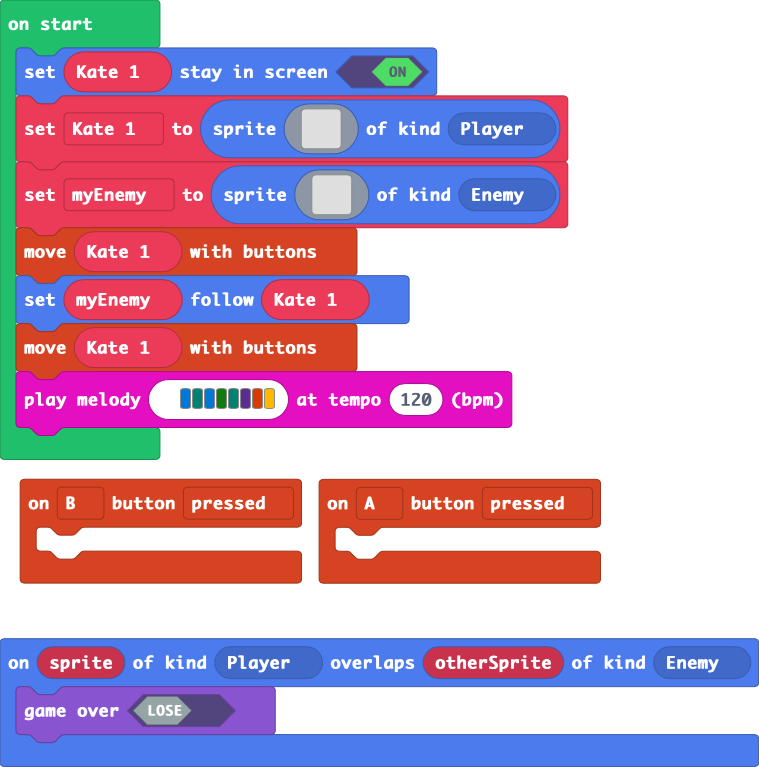
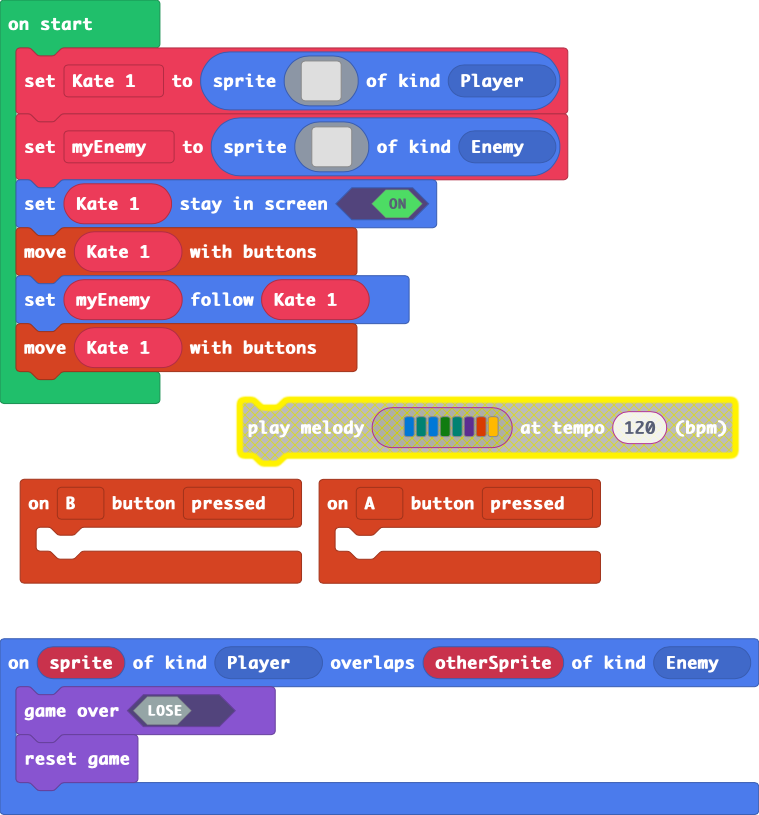
Update main.blocks, main.ts

diff --git a/main.ts b/main.ts
@@ -6,10 +6,9 @@ controller.A.onEvent(ControllerButtonEvent.Pressed, function () {
 })
 sprites.onOverlap(SpriteKind.Player, SpriteKind.Enemy, function (sprite, otherSprite) {
     game.over(false)
+    game.reset()
 })
-let Kate_1: Sprite = null
-Kate_1.setStayInScreen(true)
-Kate_1 = sprites.create(img`
+let Kate_1 = sprites.create(img`
     . . . . . . f f f f 4 4 f . . . 
     . . . . f f b f 5 4 5 5 4 f . . 
     . . . f b 3 3 e 4 5 5 5 5 f . . 
@@ -53,7 +52,7 @@ let myEnemy = sprites.create(img`
     ........................
     ........................
     `, SpriteKind.Enemy)
+Kate_1.setStayInScreen(true)
 controller.moveSprite(Kate_1)
 myEnemy.follow(Kate_1)
 controller.moveSprite(Kate_1)
-music.playMelody("E F E G F D B A ", 120)
